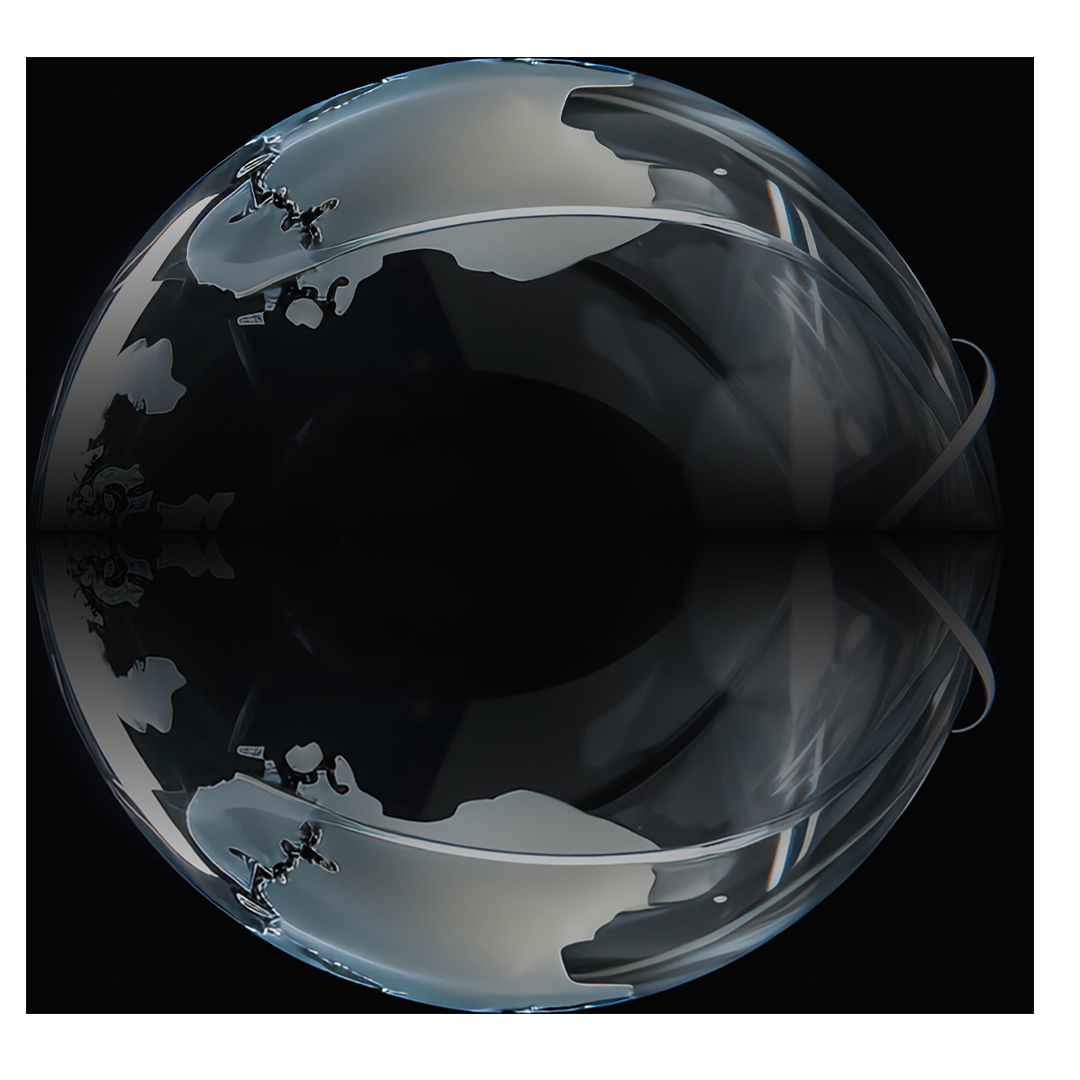
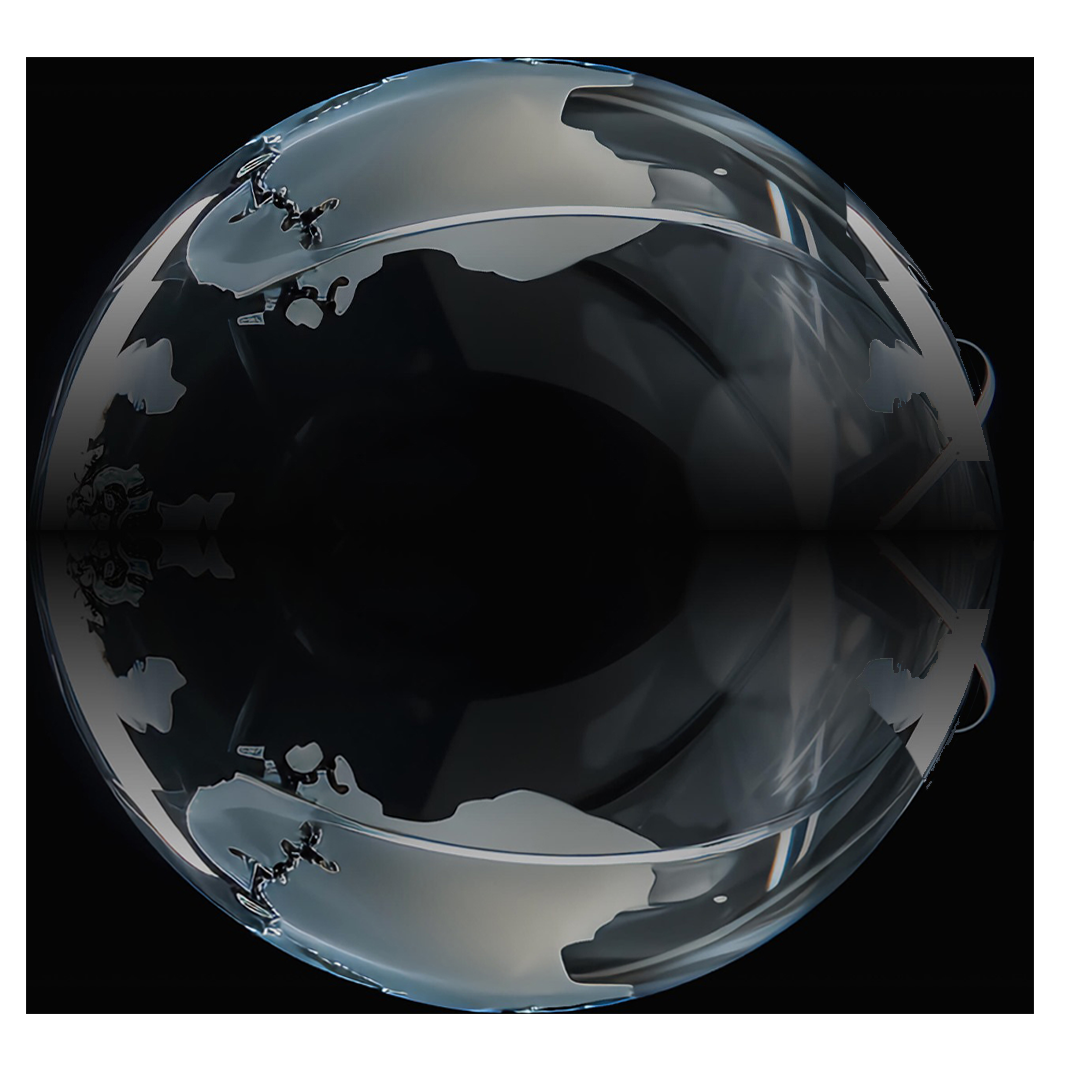
header globe update

Changed region(s): [[0.7639, 0.1833, 0.9167, 0.4278], [0.7944, 0.55, 0.9167, 0.7333]]

diff --git a/src/components/home/navbarSection/nav.jsx b/src/components/home/navbarSection/nav.jsx
@@ -12,12 +12,12 @@ function Nav() {
   return (
     <>
       <nav className="flex justify-between p-5 px-10 nav-bar">
-        <span className="w-[100px] scale-[1.4] logo">
+        <span className="w-[130px] scale-[1.4] logo">
             <a href="#">
                 <img src={ logo } className='' />
             </a>
         </span>
-        <div className={`flex justify-center items-center gap-5 nav-element ${close ? 'hide' : 'show'}`}>
+        <div className={`flex justify-center items-center gap-10 nav-element ${close ? 'hide' : 'show'}`}>
             <a href="#" className="text-white font-[500] tracking-widest text-[1rem] hover:text-primary" onClick={ menuClicked }>Home</a>
             <a href="#" className="text-white font-[500] tracking-widest text-[1rem] hover:text-primary" onClick={ menuClicked }>About Us</a>
             <a href="#" className="text-white font-[500] tracking-widest text-[1rem] hover:text-primary" onClick={ menuClicked }>Prizes</a>

diff --git a/src/components/home/heroSection/hero.jsx b/src/components/home/heroSection/hero.jsx
@@ -1,5 +1,5 @@
 import React from 'react'
-import earth from '../../../assets/globe1.png'
+import earth from '../../../assets/globe2.png'
 
 function Hero() {
   return (
